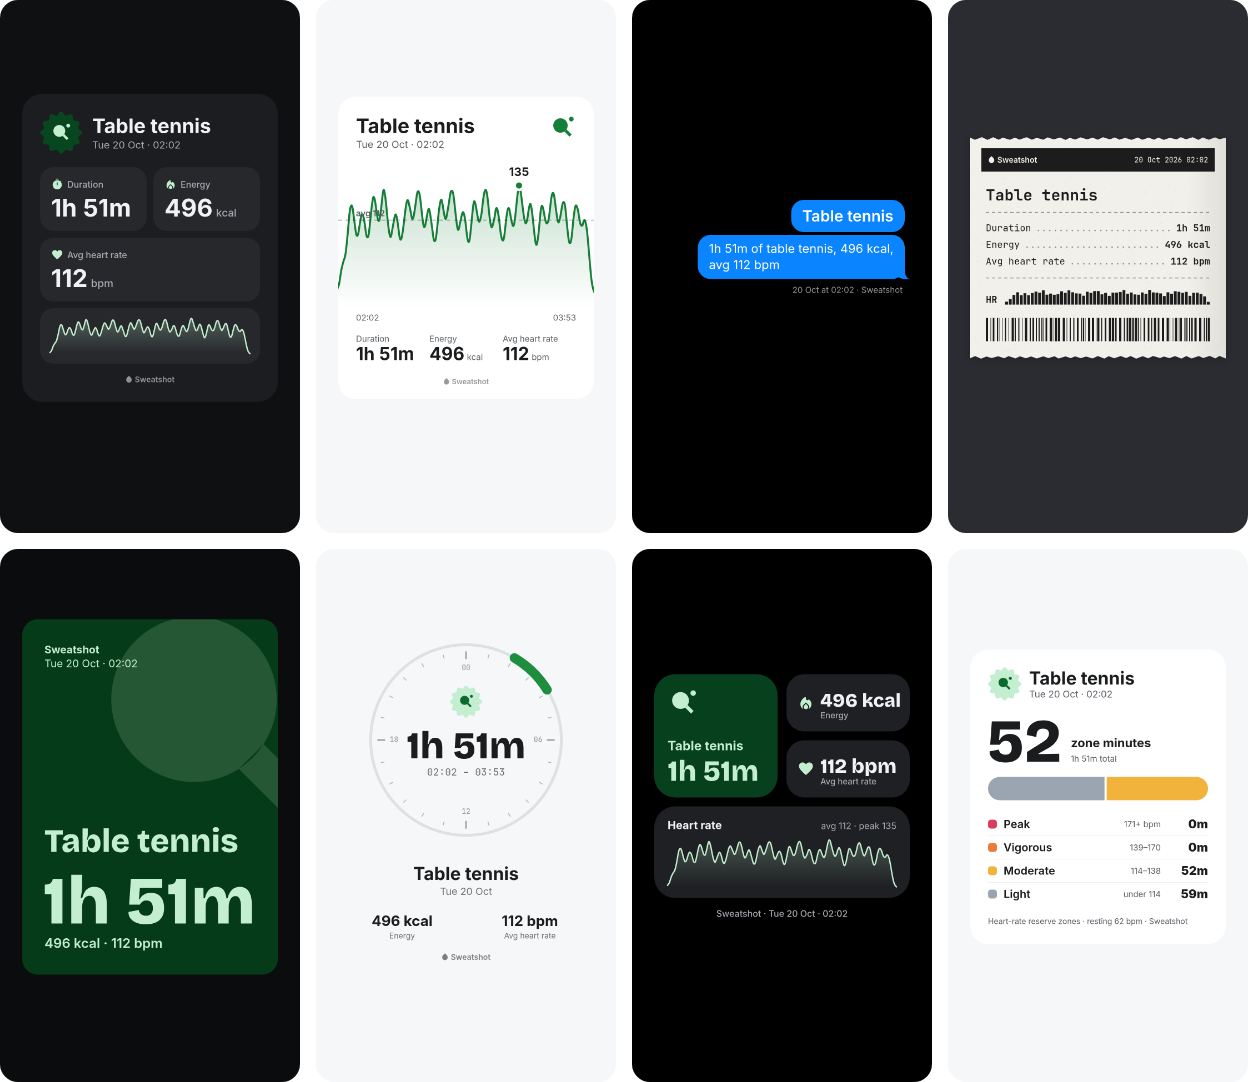
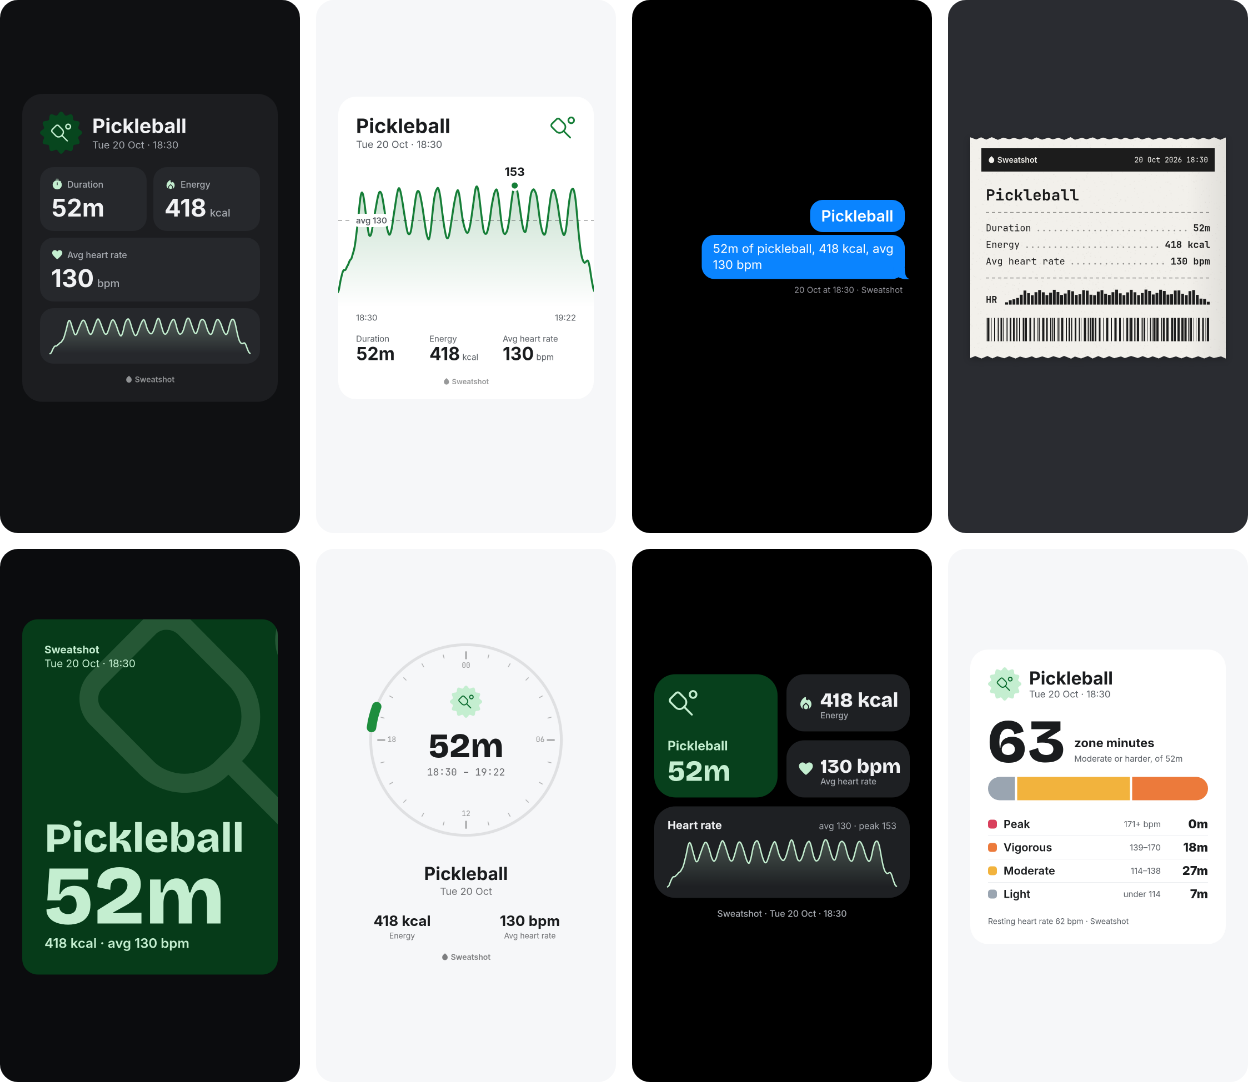
QA round 2 fixes: sample numbers on home and README, focus return, plainer labels
- Home example and README images use the made-up sample, not a real workout
- Closing a sheet returns focus to the button that opened it; radio groups named, Home/End keys
- Plainer wording for .tcx, max heart rate, image sizes and zone minutes; sample images titled as samples
- Poster fits long titles; page dots no longer tab stops; one zones message instead of two

Claude-Session: https://claude.ai/code/session_01U9u7YdTgxdgb6z5duwsvjE

diff --git a/src/ui/sheets.tsx b/src/ui/sheets.tsx
@@ -178,7 +178,13 @@ export function SettingsSheet({
           min={100}
           max={230}
           suffix="bpm"
-          note={maxHr ? `Using ${maxHr} bpm.` : 'If you leave this empty, we estimate it from your age.'}
+          note={
+            maxHr
+              ? prefs.maxHrOverride
+                ? `Max heart rate used: ${maxHr} bpm.`
+                : `Max heart rate used: ${maxHr} bpm (estimated from your age).`
+              : 'If you leave this empty, we estimate it from your age.'
+          }
         />
         <p class={`zone-status${zonesReady ? ' is-ready' : ''}`} role="status">
           <Icon name={zonesReady ? 'check' : 'lock'} />
@@ -246,10 +252,10 @@ export function SettingsSheet({
 // ── Customize ────────────────────────────────────────────────────────────────
 
 const SIZE_NOTES: Record<SizeKey, string> = {
-  sticker: 'just the card, to paste on a story or photo',
-  story: 'fills a phone screen, for stories',
-  post: 'tall post for a feed',
-  square: 'square post',
+  sticker: 'only the card, to paste on a story or photo',
+  story: 'tall, fills a phone screen',
+  post: 'a little taller than square, for a feed post',
+  square: 'square, for a feed post',
 };
 
 export function EditSheet({
@@ -297,8 +303,8 @@ export function EditSheet({
         value={prefs.size}
         options={[
           { value: 'sticker', label: 'Card' },
-          { value: 'story', label: 'Story 9:16' },
-          { value: 'post', label: 'Post 4:5' },
+          { value: 'story', label: 'Story' },
+          { value: 'post', label: 'Post' },
           { value: 'square', label: 'Square' },
         ]}
         onChange={(size) => onChange({ size })}
@@ -362,8 +368,7 @@ export function EditSheet({
 
       <button type="button" class="row-btn" onClick={onOpenDesigns}>
         <Icon name="grid_view" />
-        <span class="row-btn-text">See all designs</span>
-        <span class="row-btn-action">Star favourites</span>
+        <span class="row-btn-text">See all designs and pick favourites</span>
       </button>
 
       <div class="sheet-actions">

diff --git a/src/ui/controls.tsx b/src/ui/controls.tsx
@@ -19,22 +19,28 @@ export function Segmented<T extends string>({
   disabled?: boolean;
   note?: string;
 }) {
+  const segId = `seg-${label.replace(/\W+/g, '-').toLowerCase()}`;
   return (
     <div class={`field${disabled ? ' is-disabled' : ''}`}>
-      <div class="field-label" id={`seg-${label}`}>
+      <div class="field-label" id={segId}>
         {label}
         {note && <span class="field-note"> · {note}</span>}
       </div>
       <div
         class="segmented"
         role="radiogroup"
-        aria-labelledby={`seg-${label}`}
+        aria-labelledby={segId}
         onKeyDown={(e) => {
-          const step = e.key === 'ArrowRight' || e.key === 'ArrowDown' ? 1 : e.key === 'ArrowLeft' || e.key === 'ArrowUp' ? -1 : 0;
-          if (!step || disabled) return;
-          e.preventDefault();
           const i = options.findIndex((o) => o.value === value);
-          const next = options[(i + step + options.length) % options.length];
+          const target =
+            e.key === 'ArrowRight' || e.key === 'ArrowDown' ? (i + 1) % options.length
+            : e.key === 'ArrowLeft' || e.key === 'ArrowUp' ? (i - 1 + options.length) % options.length
+            : e.key === 'Home' ? 0
+            : e.key === 'End' ? options.length - 1
+            : -1;
+          if (target < 0 || disabled) return;
+          e.preventDefault();
+          const next = options[target];
           onChange(next.value);
           const group = e.currentTarget as HTMLElement;
           requestAnimationFrame(() => group.querySelector<HTMLElement>('[aria-checked="true"]')?.focus());

diff --git a/src/ui/empty.tsx b/src/ui/empty.tsx
@@ -25,15 +25,15 @@ export function EmptyState({ error, onImport, onSample, onSettings }: Props) {
 
       <div class="collage" aria-hidden="true">
         <span class="collage-sticker c1">
-          <SportSticker sport={sportById('table-tennis')} size={64} rotate={false} />
-          <b>1h 51m</b>
+          <SportSticker sport={sportById('pickleball')} size={64} rotate={false} />
+          <b>52m</b>
         </span>
-        <span class="collage-pill c2">496 kcal</span>
+        <span class="collage-pill c2">418 kcal</span>
         <span class="collage-card c3">
           <small>avg heart rate</small>
-          <b>112 bpm</b>
+          <b>130 bpm</b>
         </span>
-        <span class="collage-pill c4">Tue 20 Oct · 02:02</span>
+        <span class="collage-pill c4">Pickleball · Tue</span>
         <span class="collage-caption">Example</span>
       </div>
 
@@ -90,7 +90,10 @@ export function EmptyState({ error, onImport, onSample, onSettings }: Props) {
       </section>
 
       <footer class="footer">
-        <p>Your file is read on this device only. Not affiliated with Google or Fitbit.</p>
+        <p>
+          Your file is read on this device only and isn’t kept. Only your settings and favourites are saved on this
+          phone. Not affiliated with Google or Fitbit.
+        </p>
         <a href={REPO_URL} target="_blank" rel="noopener noreferrer">
           <Icon name="code" />
           Source code

diff --git a/src/ui/sheet.tsx b/src/ui/sheet.tsx
@@ -5,6 +5,16 @@ import { Icon } from './icon';
 const FOCUSABLE =
   'button:not([disabled]), [href], input:not([disabled]), select:not([disabled]), textarea:not([disabled]), [tabindex]:not([tabindex="-1"])';
 
+// The control that had focus before a sheet opened. Captured on focus (not at mount), because
+// opening a sheet makes the page behind inert, which drops focus to <body> first.
+let lastOutside: HTMLElement | null = null;
+if (typeof document !== 'undefined') {
+  document.addEventListener('focusin', (e) => {
+    const t = e.target as HTMLElement;
+    if (t && !t.closest?.('.sheet-layer')) lastOutside = t;
+  });
+}
+
 export const reducedMotion = () =>
   typeof matchMedia === 'function' && matchMedia('(prefers-reduced-motion: reduce)').matches;
 
@@ -41,7 +51,8 @@ export function Sheet({ title, onClose, children, light, class: cls }: Props) {
   };
 
   useEffect(() => {
-    const previous = document.activeElement as HTMLElement | null;
+    const active = document.activeElement as HTMLElement | null;
+    const previous = active && active !== document.body && !active.closest('.sheet-layer') ? active : lastOutside;
     const el = ref.current;
     const first = el?.querySelector<HTMLElement>('[data-autofocus]') ?? el;
     first?.focus({ preventScroll: true });

diff --git a/src/render/designs/poster.ts b/src/render/designs/poster.ts
@@ -73,11 +73,15 @@ export const poster: CardDesign = {
       drawFitText(ctx, big.value, x + PAD - 6, bottom, inner + 6, { family: DISPLAY, weight: 800, size: BIG }, p.text, 'left', 0.35);
       bottom -= BIG * 0.86;
     }
-    setFont(ctx, { family: DISPLAY, weight: 800, size: TITLE });
-    const titleLines = wrapText(ctx, data.title, inner, 2);
-    const titleSize = titleLines.length > 1 ? TITLE * 0.78 : TITLE;
-    setFont(ctx, { family: DISPLAY, weight: 800, size: titleSize });
-    const fitted = wrapText(ctx, data.title, inner, 2);
+    // Biggest size at which the title fits on at most two lines without cutting a word.
+    let titleSize = TITLE;
+    let fitted: string[] = [];
+    for (const k of [1, 0.78, 0.62, 0.5]) {
+      titleSize = TITLE * k;
+      setFont(ctx, { family: DISPLAY, weight: 800, size: titleSize });
+      fitted = wrapText(ctx, data.title, inner, 2);
+      if (!fitted.some((l) => l.endsWith('…'))) break;
+    }
     for (let i = fitted.length - 1; i >= 0; i--) {
       ctx.fillStyle = p.text;
       ctx.textAlign = 'left';

diff --git a/src/app.tsx b/src/app.tsx
@@ -419,8 +419,9 @@ export function App() {
     setError(null);
     selectWorkout([sampleWorkout()], 0);
     setSportId('pickleball');
+    setTitle('Sample pickleball');
     setSheet(null);
-    showToast('This is a made-up sample. Open your own file any time.');
+    showToast('This is a made-up sample. To use your own, tap the title at the top.');
   };
 
   const onStar = (id: string) => {
@@ -519,14 +520,7 @@ export function App() {
           </button>
         </header>
         {!hasHr && <p class="note">{NOTE_NO_HR} Heart-rate designs are hidden.</p>}
-        {zonesLocked && design.needsZones && (
-          <p class="note">
-            Zones need your resting heart rate and age.{' '}
-            <button type="button" class="link-btn" onClick={() => setSheet('settings')}>
-              Open settings
-            </button>
-          </p>
-        )}
+
 
         <main class="stage" inert={customizing}>
           <Carousel

diff --git a/src/render/designs/zones.ts b/src/render/designs/zones.ts
@@ -60,7 +60,7 @@ export const zones: CardDesign = {
     const numW = drawFitText(ctx, big, x - 4, y + BIG * 0.8, w * 0.55, { family: DISPLAY, weight: 800, size: BIG }, c.ink, 'left', 0.5);
     const lx = x + numW + 28;
     drawFitText(ctx, 'zone minutes', lx, y + BIG * 0.8 - 52, w - (lx - x), { family: SANS, weight: 700, size: 44 }, c.ink);
-    drawFitText(ctx, `${formatDuration(data.durationSec)} total`, lx, y + BIG * 0.8, w - (lx - x), { family: SANS, weight: 400, size: 30 }, c.muted);
+    drawFitText(ctx, `Moderate or harder, of ${formatDuration(data.durationSec)}`, lx, y + BIG * 0.8, w - (lx - x), { family: SANS, weight: 400, size: 30 }, c.muted);
     y += BIG * 0.85 + 44;
 
     // Proportional bar.

diff --git a/src/tcx/parse.ts b/src/tcx/parse.ts
@@ -30,7 +30,7 @@ export type ParseResult =
   | { ok: false; error: string };
 
 export const ERR_NOT_TCX =
-  "This isn't a workout file from Google Health. In Google Health, open your workout, tap the three dots (⋯), tap Export, and open that file here.";
+  "This app needs a .tcx workout file. In Google Health, open your workout, tap the three dots (⋯), tap Export, and open that file here.";
 export const ERR_EMPTY = 'This file is empty. Export the workout from Google Health again and open the new file.';
 export const ERR_DAMAGED =
   'This workout file is damaged or cut off. Export the workout from Google Health again and open the new file.';

diff --git a/src/ui/carousel.tsx b/src/ui/carousel.tsx
@@ -235,6 +235,7 @@ export function Carousel({ designs, activeIndex, onActiveChange, data, optsFor, 
             type="button"
             aria-current={i === visual ? 'true' : undefined}
             aria-label={`Show ${d.name}`}
+            tabIndex={-1}
             class={`dot${i === visual ? ' is-on' : ''}${favourites.includes(d.id) ? ' is-fav' : ''}`}
             onClick={() => goTo(i)}
           />

diff --git a/src/styles.css b/src/styles.css
@@ -1459,9 +1459,7 @@ button:disabled {
   height: 1em;
 }
 
-.dot.is-fav::after {
-  background: #e8a020;
-}
+
 
 .design-bar .btn {
   white-space: nowrap;
